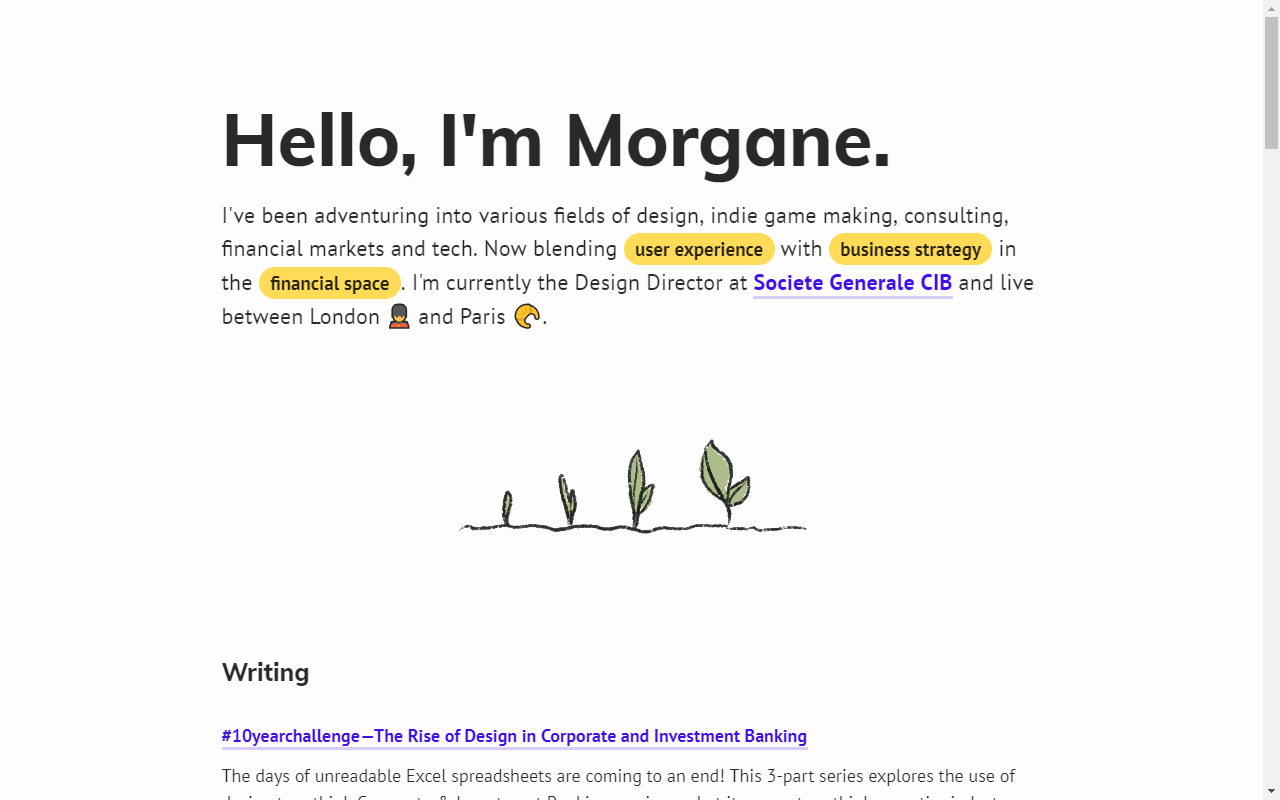
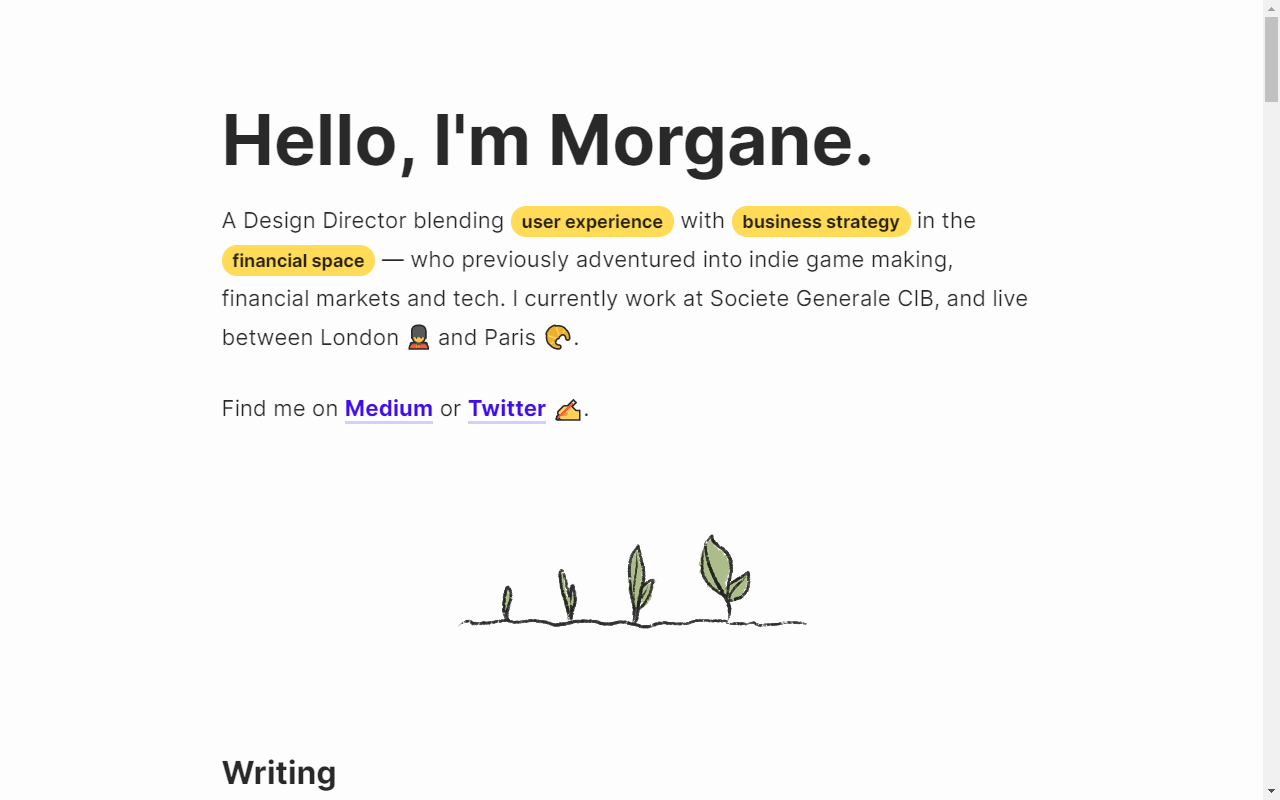
add TheDSPod and ParisWeb + update Thumb

diff --git a/index.html b/index.html
@@ -3,8 +3,8 @@
 <head>
   <meta charset="utf-8"  lang="en">
   <meta name="viewport" content="width=device-width, initial-scale=1, shrink-to-fit=no">
-  <meta name="description" content="An adventurer into various fields of design, indie game making, consulting, financial markets and tech. Now primarily blending User Experience with Business Strategy in the financial space.">
-  <meta name="keywords" content="UX,User Experience,Interaction Design,Agile,Design Thinking,Lean,Data Visualisation,Prototype,Sketching,RPG,Derivatives,Structured Products,Investment Banking,Financial Markets,Valuation,Electronic Trading">
+  <meta name="description" content="A Design Director blending user experience with business strategy in the financial space — who previously adventured into indie game making, financial markets and tech.">
+  <meta name="keywords" content="Design Director,UX,User Experience,Interaction Design,Agile,Design Thinking,Lean,Data Visualisation,Prototype,Sketching,RPG,Derivatives,Structured Products,Investment Banking,Financial Markets,Valuation,Electronic Trading">
   <meta name="author" content="Morgane Peng">
   <meta http-equiv="x-ua-compatible" content="ie=edge">
   <link rel="icon" href="/favicon.ico" type="image/x-icon">
@@ -41,7 +41,7 @@
   <div class="my_4">
     <h1>Writing</h1>
     <div class="mb_2">
-      <p><a href="https://medium.com/societe-generale-design/design-system-5-things-we-did-to-rally-people-over-the-years-a5f92d540411" onclick="trackOutboundLink('https://medium.com/societe-generale-design/design-system-5-things-we-did-to-rally-people-over-the-years-a5f92d540411">Design System: What We Did to Rally People Over The Years</a></p>
+      <p><a href="https://medium.com/societe-generale-design/design-system-5-things-we-did-to-rally-people-over-the-years-a5f92d540411" onclick="trackOutboundLink('https://medium.com/societe-generale-design/design-system-5-things-we-did-to-rally-people-over-the-years-a5f92d540411'); return false;">Design System: What We Did to Rally People Over The Years</a></p>
       <p>Designers and developers often think that hard work should speak for itself, but adoption does not happen magically. This article tells the story of how we learned to become Design System ‘growth hackers’.
       <span class="txt_muted">Jun 2020</span></p>
     </div>
@@ -85,7 +85,12 @@
   <div class="my_4">
     <h1>Interviews</h1>
     <div class="mb_2">
-      <p><a href="https://xd.adobe.com/ideas/perspectives/leadership-insights/ux-financial-services-societe-generale/" onclick="trackOutboundLink('https://xd.adobe.com/ideas/perspectives/leadership-insights/ux-financial-services-societe-generale/'); return false;">Societe Generale: A Tour Around the World of Financial UX</a></p>
+      <p><a href="https://www.designsystemspodcast.com/episodes/episode/47e5a769/19-morgane-peng-from-societe-generale-the-right-level-of-complexity-for-the-right-people" onclick="trackOutboundLink('https://www.designsystemspodcast.com/episodes/episode/47e5a769/19-morgane-peng-from-societe-generale-the-right-level-of-complexity-for-the-right-people'); return false;">The Design Systems Podcast: The Right Level of Complexity for The Right People</a></p>
+      <p>Chris and I discuss threading design into the fabric of how business works, capturing complexity needs within a design system, moving away from traditional design tools and the lessons from game development.
+      <span class="txt_muted">TheDSPod, Sep 2020</span></p>
+    </div>
+    <div class="mb_2">
+      <p><a href="https://xd.adobe.com/ideas/perspectives/leadership-insights/ux-financial-services-societe-generale/" onclick="trackOutboundLink('https://xd.adobe.com/ideas/perspectives/leadership-insights/ux-financial-services-societe-generale/'); return false;">A Tour Around the World of Financial UX</a></p>
       <p>I shared our design story with Adobe: how a small foot in the door led to bigger changes, why I used doodles to explain our digital strategy and why building a high performing team takes time.
       <span class="txt_muted">XD Ideas, Aug 2020</span></p>
     </div>
@@ -95,7 +100,7 @@
       <span class="txt_muted">UX Live Conference, Nov 2019</span></p>
     </div>
     <div class="mb_2">
-      <p><a href="https://www.invisionapp.com/inside-design/societe-generale-design" onclick="trackOutboundLink('https://www.invisionapp.com/inside-design/societe-generale-design'); return false;">Societe Generale’s Morgane Peng on Collaboration, Constraints, and Chaos</a></p>
+      <p><a href="https://www.invisionapp.com/inside-design/societe-generale-design" onclick="trackOutboundLink('https://www.invisionapp.com/inside-design/societe-generale-design'); return false;">Collaboration, Constraints, and Chaos</a></p>
       <p>I talked with InVision on how we rethink complicated processes to design digital tools used on trading floors all over the globe — deep dive into a highly collaborative culture, how to embrace constraints and avoid chaos.
       <span class="txt_muted">InVision Blog, Sep 2018</span></p>
     </div>
@@ -126,8 +131,8 @@
     <div class="my_3 groupline">
       <h2>Ok We Have a Design System, Now What?</h2>
       <p>What happens once you’ve laid out the basics and foundations of your design system? When the components and guidelines are “done”? A design system is a living organism, and there’s always more to do. So what’s next?</p>
-      <ul>
-        <li class="txt_muted my_1">Presented at:</li>
+      <ul class="txt_muted">
+        <li class="small my_1">Presented at:</li>
         <li><span class="txt_bold">Design Strategy UX Crunch</span>, online webinar, July 2020  – <a href="https://speakerdeck.com/morganepeng/we-have-a-design-system-now-what" onclick="trackOutboundLink('https://speakerdeck.com/morganepeng/we-have-a-design-system-now-what'); return false;">slides</a></li>
         <li><span class="txt_bold">Design System Summit</span> in Paris, France, Feb 2020 – <a href="https://www.eventbrite.fr/e/billets-design-system-summit-86691349159" onclick="trackOutboundLink('https://www.eventbrite.fr/e/billets-design-system-summit-86691349159'); return false;">event page</a> – <a href="https://speakerdeck.com/morganepeng/ok-on-a-un-design-system-cest-quoi-la-suite" onclick="trackOutboundLink('https://speakerdeck.com/morganepeng/ok-on-a-un-design-system-cest-quoi-la-suite'); return false;">slides 🇫🇷</a></li>
       </ul> 
@@ -136,8 +141,8 @@
     <div class="my_3 groupline">
       <h2>Design x Strategy: Why and How to Mind Other People’s Business</h2>
       <p>We're in a world of rising visibility and responsibilities for design. Yet, "with great power comes great responsibility". This talk shares several tips on how designers can get a seat at the table and keep it.</p>
-      <ul>
-        <li class="txt_muted my_1">Presented at:</li>
+      <ul class="txt_muted">
+        <li class="small my_1">Presented at:</li>
         <li><span class="txt_bold">UCD Gathering</span>, online webinar, Oct 2020 <span class="badge_secondary">Upcoming</span></li>
         <li><span class="txt_bold">Interaction Design Foundation</span>, online master class, Mar 2020 – <a href="https://www.interaction-design.org/master-classes/how-to-deal-with-people-who-don-t-get-design" onclick="trackOutboundLink('https://www.interaction-design.org/master-classes/how-to-deal-with-people-who-don-t-get-design'); return false;">event page</a></li>
         <li><span class="txt_bold">UX Live Conference</span> in London, UK, Nov 2019 – <a href="https://speakerdeck.com/morganepeng/design-and-strategy-how-to-deal-with-people-who-dont-get-design" onclick="trackOutboundLink('https://speakerdeck.com/morganepeng/design-and-strategy-how-to-deal-with-people-who-dont-get-design'); return false;">slides</a> – <a href="https://youtu.be/-rQop32q3jY" onclick="trackOutboundLink('https://youtu.be/-rQop32q3jY'); return false;">replay</a></li>
@@ -149,8 +154,9 @@
     <div class="my_3 groupline">
       <h2>Design x Improv: Making Your Design Safe Space (workshop)</h2>
       <p>It takes more than just being a great designer to succeed in your work environment. Let's use improv and roleplay to help you thrive at work!</p>
-      <ul>
-        <li class="txt_muted my_1">Hosted at:</li>
+      <ul class="txt_muted">
+        <li class="small my_1">Hosted at:</li>
+        <li><span class="txt_bold">Paris Web</span> in Paris, France, Oct 2020 <span class="badge_secondary">Upcoming</span> – <a href="https://www.paris-web.fr/2020/ateliers/digital-x-impro-comment-faire-face-a-toutes-les-situations.php" onclick="trackOutboundLink('https://www.paris-web.fr/2020/ateliers/digital-x-impro-comment-faire-face-a-toutes-les-situations.php'); return false;">event page</a></li>
         <li><span class="txt_bold">UX Live Conference</span> in London, UK, Nov 2019</li>
         <li><span class="txt_bold">UX and Digital Design Week</span> in London, UK, Aug 2019</li> 
       </ul>
@@ -159,10 +165,11 @@
     <div class="my_3 groupline">
       <h2>From Silos to Systems: Using Design to Power Up Business Agility</h2>
       <p>How can companies optimise for responsiveness and reduce design entropy? This case study covers how we used design to implement systemic change in a 150-year-old bank.</p>
-      <ul>
-        <li class="txt_muted my_1">Presented at:</li>
+      <ul class="txt_muted">
+        <li class="small my_1">Presented at:</li>
         <li><span class="txt_bold">Financial Services Customer Experience Conference</span> in London, UK <span class="badge_secondary">Postponed</span></li>
         <li><span class="txt_bold">CX Summit</span> in Athens, Greece, Nov 2019</li>
+        <li><span class="txt_bold">Societe Generale TechWeek</span> in Paris, France, Nov 2019</li>
         <li><span class="txt_bold">UXDX Conference</span> in Dublin, Ireland, Oct 2019 – <a href="https://speakerdeck.com/morganepeng/from-silos-to-systems-using-design-to-power-up-business-agility" onclick="trackOutboundLink('https://speakerdeck.com/morganepeng/from-silos-to-systems-using-design-to-power-up-business-agility'); return false;">slides</a> – <a href="https://youtu.be/--pvh4ABrfg" onclick="trackOutboundLink('https://youtu.be/--pvh4ABrfg'); return false;">replay</a></li>
         <li><span class="txt_bold">Designing for Fintech UX Crunch</span> in London, UK, Feb 2019 – <a href="https://www.meetup.com/UXcrunch/events/258495526/" onclick="trackOutboundLink('https://www.meetup.com/UXcrunch/events/258495526/'); return false;">event page</a></li>
       </ul>
@@ -171,8 +178,8 @@
     <div class="my_3 groupline">
       <h2>How to Use UX and Digital Design to Increase Customer Centricity</h2>
       <p>What makes a product successful? If you cannot clearly define what problem the product solves, then it’s not viable… it’s just sexy.</p>
-      <ul>
-        <li class="txt_muted my_1">Presented at:</li>
+      <ul class="txt_muted">
+        <li class="small my_1">Presented at:</li>
         <li><span class="txt_bold">Data Marketing Paris</span> in Paris, France, Nov 2019 – <a href="https://datamarketingparis.com/2019/" onclick="trackOutboundLink('https://datamarketingparis.com/2019/'); return false;">event page</a></a></li>
         <li><span class="txt_bold">Marcus Evans Conference</span> in London, UK, Apr 2018 – <a href="http://www.marcusevans-conferences-paneuropean.com/marcusevans-conferences-event-details.asp?EventID=24151&SectorID=2#.W0EqINJKiUk" onclick="trackOutboundLink('http://www.marcusevans-conferences-paneuropean.com/marcusevans-conferences-event-details.asp?EventID=24151&SectorID=2#.W0EqINJKiUk'); return false;">event page</a></li>
       </ul>
@@ -186,42 +193,40 @@
 
   <div class="my_4">
     <h1>About me</h1>
-    <p>🐣 I wasn’t born a UX designer. I started my career in consulting and finance, explaining structured investment solutions to diverse clients ranging from French agricultural cooperatives (in Paris) to regional banks in Asia (in Hong Kong).</p>
-    <p>Back then, I was a victim of disjointed interfaces. It almost seemed to be a point of pride on the trading floor. The more complicated your screen looked, the cooler you were.</p>
-    <p>But I had a secret: I was an undercover designer 🕵♀. Day job aside, I was a freelance artist and developing indie games (<a href="https://www.koruldia.com" onclick="trackOutboundLink('https://www.koruldia.com'); return false;">still doing it today!</a>). So I rebelled against my badly designed tools to change them.</p>
-    
-    <p>Fast forward to today ⏩⏩⏩</p>
-    <p>I am now responsible for the design vision and strategy of <a href="https://www.societegenerale.com" onclick="trackOutboundLink('https://www.societegenerale.com'); return false;">Societe Generale CIB</a>. I lead an international and multidisciplinary <a href="https://design.sgmarkets.com" onclick="trackOutboundLink('https://design.sgmarkets.com'); return false;">team of design experts</a> in service of our mission to empower people to take control over sophisticated products and financial systems.</p>
+    <p class="mb_2">🐣 I wasn’t born a UX designer. I started my career in consulting and finance, explaining structured investment solutions to diverse clients ranging from French agricultural cooperatives (in Paris) to regional banks in Asia (in Hong Kong).</p>
+    <p class="mb_2">Back then, I was a victim of disjointed interfaces. It almost seemed to be a point of pride on the trading floor. The more complicated your screen looked, the cooler you were.</p>
+    <p class="mb_2">But I had a secret: I was an undercover designer 🕵♀.</p>
+    <p class="mb_2">Day job aside, I was a freelance artist and developing indie games (<a href="https://www.koruldia.com" onclick="trackOutboundLink('https://www.koruldia.com'); return false;">still doing it today!</a>). So I rebelled against my badly designed tools to change them.</p>
+    <p class="mb_2">I am now responsible for the design vision and strategy of <a href="https://www.societegenerale.com" onclick="trackOutboundLink('https://www.societegenerale.com'); return false;">Societe Generale CIB</a>. I lead an international and multidisciplinary <a href="https://design.sgmarkets.com" onclick="trackOutboundLink('https://design.sgmarkets.com'); return false;">team of design experts</a> in service of our mission to empower people to take control over sophisticated products and financial systems.</p>
 
-    <p>I'm also a culture change advocate to create high performance and collaborative organisations 🚀.</p>
+    <p class="mb_2">I'm also a culture change advocate for high performance and collaborative organisations 🚀.</p>
+    <div class="section group">
+      <div class="col span_1_of_3">
+        <img src="img/more2.jpg" class="img_fluid" alt="Radical inclusion" />
+      </div>
+      <div class="col span_1_of_3">
+        <img src="img/more6.jpg" class="img_fluid" alt="Cruising through life" />
+      </div>
+      <div class="col span_1_of_3">
+        <img src="img/more5.jpg" class="img_fluid" alt="Creativity is key" />
+      </div>
+    </div> 
+    <div class="section group">
+      <div class="col span_1_of_3">
+        <img src="img/more1.jpg" class="img_fluid" alt="Travel the world" />
+      </div>
+      <div class="col span_1_of_3">
+        <img src="img/more4.jpg" class="img_fluid" alt="Just do it" />
+      </div>
+      <div class="col span_1_of_3">
+        <img src="img/more3.jpg" class="img_fluid" alt="Asian descent" />
+      </div>
+    </div>
   </div>
 </div>
 
 <div class="container grid_sm">
-  <h1>Snippets of life</h1>
-  <div class="section group">
-    <div class="col span_1_of_3">
-      <img src="img/more2.jpg" class="img_fluid" alt="Radical inclusion" />
-    </div>
-    <div class="col span_1_of_3">
-      <img src="img/more6.jpg" class="img_fluid" alt="Cruising through life" />
-    </div>
-    <div class="col span_1_of_3">
-      <img src="img/more5.jpg" class="img_fluid" alt="Creativity is key" />
-    </div>
-  </div> 
-  <div class="section group">
-    <div class="col span_1_of_3">
-      <img src="img/more1.jpg" class="img_fluid" alt="Travel the world" />
-    </div>
-    <div class="col span_1_of_3">
-      <img src="img/more4.jpg" class="img_fluid" alt="Just do it" />
-    </div>
-    <div class="col span_1_of_3">
-      <img src="img/more3.jpg" class="img_fluid" alt="Asian descent" />
-    </div>
-  </div>
-  <div class="my_4">
+  <div class="mb_2">
     <div class="align_bottom">
       <div class="col mr_auto">
         <a href="https://medium.com/@morganepeng" class="mr_2" onclick="trackOutboundLink('https://medium.com/@morganepeng'); return false;">Medium</a>
@@ -231,7 +236,7 @@
       </div>
       <div class="float_right">
         <a href="https://www.koruldia.com" onclick="trackOutboundLink('https://www.koruldia.com'); return false;">
-          <div class="tooltipp"><img src="img/retro2.gif" alt="Easter"/><img src="img/retro1.gif"alt="Egg"/></p>
+          <div class="tooltipp"><img src="img/retro2.gif" alt="Easter egg"/><img src="img/retro1.gif"alt="Egg"/></p>
             <span class="tooltipptext">Discover my next indie game!</span>
           </div>
         </a>

diff --git a/css/main.css b/css/main.css
@@ -74,7 +74,7 @@ li {margin-bottom:0.2rem;}
 .col {
 	display: block;
 	float:left;
-	margin: 1% 0 1% 1%;
+    margin: 1% 0 1% 1%;
 }
 /* http://www.responsivegridsystem.com/calculator/ */
 .col:first-child { margin-left: 0; }
@@ -85,7 +85,6 @@ li {margin-bottom:0.2rem;}
 .span_2_of_2 {width: 100%;}
 .span_1_of_2 {width: 49.5%;}
 @media only screen and (max-width: 768px) {
-    .col {margin: 1% 0 1% 0%;}
     .span_2_of_2, .span_1_of_2 { width: 100%; }
 }
 
@@ -93,7 +92,6 @@ li {margin-bottom:0.2rem;}
 .span_2_of_3 { width: 66.33%; }
 .span_1_of_3 { width: 32.66%; }
 @media only screen and (max-width: 640px) {
-	.col {  margin: 1% 0 1% 0%; }
 	.span_3_of_3, .span_2_of_3, .span_1_of_3 { width: 100%; }
 }
 
@@ -102,7 +100,6 @@ li {margin-bottom:0.2rem;}
 .span_2_of_4 { width: 49.5%; }
 .span_1_of_4 { width: 24.25%; }
 @media only screen and (max-width: 640px) {
-	.col {  margin: 1% 0 1% 0%; }
 	.span_4_of_4, .span_3_of_4, .span_2_of_4, .span_1_of_4 { width: 100%; }
 }
 
